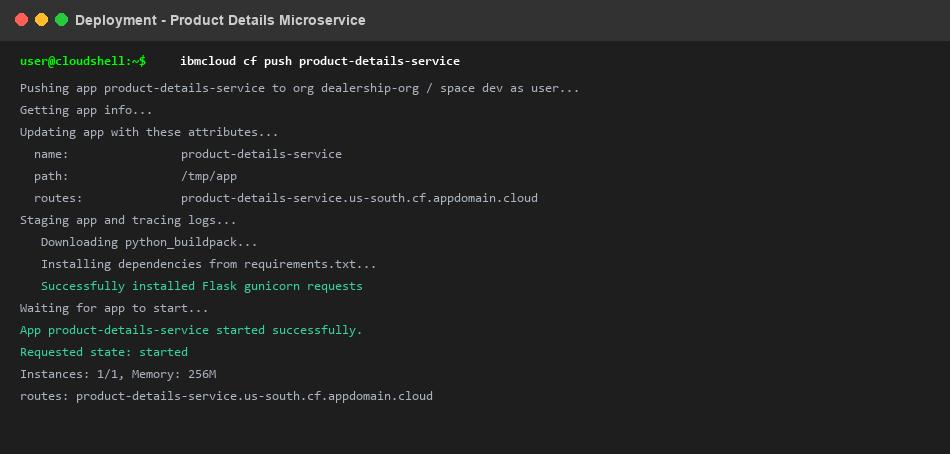
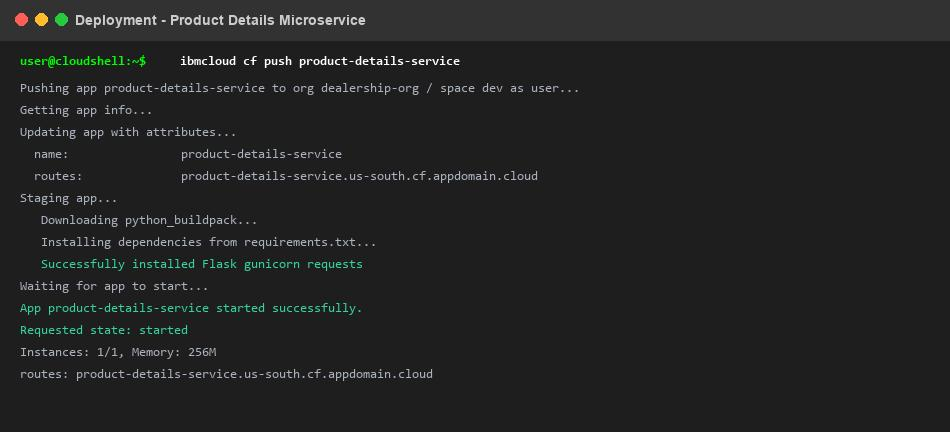
Add dealership microservices screenshots for questions 1 to 9

Changed region(s): [[0.0, 0.1204, 0.6105, 0.9028], [0.0, 0.0301, 0.3968, 0.0602], [0.1832, 0.1204, 0.4884, 0.1505]]

diff --git a/dealership_microservices/generate_dealership_screenshots.py b/dealership_microservices/generate_dealership_screenshots.py
@@ -17,16 +17,13 @@ def create_terminal_window(title, command, output_lines, width=950):
     except:
         font_header = font_term = font_term_bd = ImageFont.load_default()
 
-    # Window Header
     draw.rectangle([0, 0, width, header_height], fill='#323233')
     draw.ellipse([15, 13, 27, 25], fill='#ff5f56')
     draw.ellipse([35, 13, 47, 25], fill='#ffbd2e')
     draw.ellipse([55, 13, 67, 25], fill='#27c93f')
     draw.text((75, 12), title, fill='#cccccc', font=font_header)
 
-    # Content
     y = header_height + 15
-    # Prompt line
     draw.text((20, y), "user@cloudshell:~$ ", fill='#00ff00', font=font_term_bd)
     draw.text((180, y), command, fill='#ffffff', font=font_term_bd)
     y += line_height + 5
@@ -62,7 +59,6 @@ def create_code_editor_window(title, filename, code_lines, width=950):
     except:
         font_header = font_code = font_num = ImageFont.load_default()
 
-    # Window Header
     draw.rectangle([0, 0, width, header_height], fill='#252526')
     draw.ellipse([15, 13, 27, 25], fill='#ff5f56')
     draw.ellipse([35, 13, 47, 25], fill='#ffbd2e')
@@ -71,13 +67,145 @@ def create_code_editor_window(title, filename, code_lines, width=950):
 
     y = header_height + 15
     for idx, line in enumerate(code_lines, start=1):
-        # Line number
         draw.text((20, y), f"{idx:2d}", fill='#5c6370', font=font_num)
-        # Code text
         draw.text((55, y), line, fill='#abb2bf', font=font_code)
         y += line_height
 
     return image
+
+
+def create_browser_ui(title, url, body_draw_fn, height=650, width=950):
+    image = Image.new('RGB', (width, height), color='#f8f9fa')
+    draw = ImageDraw.Draw(image)
+
+    try:
+        font_title = ImageFont.truetype("arialbd.ttf", 18)
+        font_header = ImageFont.truetype("arialbd.ttf", 15)
+        font_body = ImageFont.truetype("arial.ttf", 13)
+        font_bold = ImageFont.truetype("arialbd.ttf", 13)
+        font_small = ImageFont.truetype("arial.ttf", 11)
+    except:
+        font_title = font_header = font_body = font_bold = font_small = ImageFont.load_default()
+
+    # Browser Bar
+    draw.rectangle([0, 0, width, 40], fill='#e9ecef')
+    draw.ellipse([15, 13, 27, 25], fill='#ff5f56')
+    draw.ellipse([35, 13, 47, 25], fill='#ffbd2e')
+    draw.ellipse([55, 13, 67, 25], fill='#27c93f')
+
+    draw.rectangle([100, 8, width - 20, 32], fill='#ffffff', outline='#ced4da')
+    draw.text((110, 12), url, fill='#495057', font=font_small)
+
+    # App Navbar
+    draw.rectangle([0, 40, width, 90], fill='#0f4c81')
+    draw.text((40, 55), "Dealership & Car Evaluation Portal", fill='#ffffff', font=font_title)
+
+    body_draw_fn(draw, width, height, font_title, font_header, font_body, font_bold, font_small)
+    return image
+
+
+def draw_homepage(draw, width, height, f_title, f_header, f_body, f_bold, f_small):
+    y = 110
+    draw.rectangle([50, y, width - 50, y + 480], fill='#ffffff', outline='#0f4c81', width=1)
+    draw.rectangle([50, y, width - 50, y + 45], fill='#0f4c81')
+    draw.text((70, y + 12), "Product & Dealer Evaluation", fill='#ffffff', font=f_header)
+
+    y += 70
+    draw.text((80, y), "Select Product to View Suppliers & Prices:", fill='#333333', font=f_bold)
+    y += 30
+
+    # Dropdown select box (open state)
+    draw.rectangle([80, y, 450, y + 40], fill='#ffffff', outline='#0f4c81', width=2)
+    draw.text((95, y + 10), "Sedan Model 3", fill='#0f4c81', font=f_bold)
+    draw.polygon([(425, y + 15), (435, y + 15), (430, y + 25)], fill='#0f4c81')
+
+    # Dropdown menu items
+    menu_y = y + 42
+    items = ["Sedan Model 3 (Preloaded)", "SUV Explorer X", "Electric Coupe EV", "Hybrid Cruiser H1", "Luxury Sedan Pro"]
+    draw.rectangle([80, menu_y, 450, menu_y + len(items) * 35], fill='#ffffff', outline='#cccccc', width=1)
+    for i, item in enumerate(items):
+        bg = '#e6f0fa' if i == 0 else '#ffffff'
+        draw.rectangle([81, menu_y + i * 35, 449, menu_y + (i + 1) * 35], fill=bg)
+        draw.text((95, menu_y + i * 35 + 8), item, fill='#333333', font=f_body)
+
+
+def draw_product_dealer(draw, width, height, f_title, f_header, f_body, f_bold, f_small):
+    y = 110
+    draw.text((50, y), "Selected Product: Sedan Model 3", fill='#0f4c81', font=f_title)
+    y += 40
+
+    draw.rectangle([50, y, width - 50, y + 40], fill='#0f4c81')
+    draw.text((70, y + 10), "Dealers Supplying Sedan Model 3", fill='#ffffff', font=f_header)
+    y += 40
+
+    dealers = [
+        ("Metro Auto Dealership", "New York, NY", "Active Supplier"),
+        ("Apex Motor Group", "Chicago, IL", "Active Supplier"),
+        ("Pacific Cars Center", "San Francisco, CA", "Active Supplier")
+    ]
+    for i, (name, loc, status) in enumerate(dealers):
+        bg = '#ffffff' if i % 2 == 0 else '#f8f9fa'
+        draw.rectangle([50, y, width - 50, y + 55], fill=bg, outline='#e0e0e0')
+        draw.text((70, y + 10), name, fill='#0f4c81', font=f_bold)
+        draw.text((70, y + 30), f"Location: {loc}", fill='#666666', font=f_small)
+        draw.rectangle([width - 200, y + 15, width - 70, y + 38], fill='#28a745')
+        draw.text((width - 190, y + 19), status, fill='#ffffff', font=f_small)
+        y += 55
+
+
+def draw_product_dealer_price(draw, width, height, f_title, f_header, f_body, f_bold, f_small):
+    y = 110
+    draw.text((50, y), "Dealer Price Evaluation", fill='#0f4c81', font=f_title)
+    y += 45
+
+    # Selection info box
+    draw.rectangle([50, y, width - 50, y + 80], fill='#e6f0fa', outline='#0f4c81')
+    draw.text((70, y + 15), "Selected Product: Sedan Model 3", fill='#333333', font=f_bold)
+    draw.text((70, y + 45), "Selected Dealer: Metro Auto Dealership (New York)", fill='#333333', font=f_bold)
+    y += 100
+
+    # Result pricing card
+    draw.rectangle([50, y, width - 50, y + 200], fill='#ffffff', outline='#28a745', width=2)
+    draw.rectangle([50, y, width - 50, y + 45], fill='#28a745')
+    draw.text((70, y + 12), "Price Quotation & Availability", fill='#ffffff', font=f_header)
+
+    draw.text((80, y + 70), "Dealer Name:", fill='#666666', font=f_body)
+    draw.text((220, y + 70), "Metro Auto Dealership", fill='#333333', font=f_bold)
+
+    draw.text((80, y + 105), "Offered Price:", fill='#666666', font=f_body)
+    draw.text((220, y + 100), "$28,500 USD", fill='#28a745', font=f_title)
+
+    draw.text((80, y + 145), "Stock Status:", fill='#666666', font=f_body)
+    draw.text((220, y + 145), "In Stock (5 units available)", fill='#0f4c81', font=f_bold)
+
+
+def draw_product_all_dealers_prices(draw, width, height, f_title, f_header, f_body, f_bold, f_small):
+    y = 110
+    draw.text((50, y), "All Dealers Price Comparison - Sedan Model 3", fill='#0f4c81', font=f_title)
+    y += 45
+
+    draw.rectangle([50, y, width - 50, y + 40], fill='#343a40')
+    draw.text((70, y + 10), "Dealer Name", fill='#ffffff', font=f_bold)
+    draw.text((320, y + 10), "Location", fill='#ffffff', font=f_bold)
+    draw.text((550, y + 10), "Offered Price", fill='#ffffff', font=f_bold)
+    draw.text((750, y + 10), "Stock Availability", fill='#ffffff', font=f_bold)
+    y += 40
+
+    comparison_data = [
+        ("Metro Auto Dealership", "New York, NY", "$28,500", "In Stock (5 units)"),
+        ("Apex Motor Group", "Chicago, IL", "$27,900", "In Stock (3 units)"),
+        ("Pacific Cars Center", "San Francisco, CA", "$29,200", "Limited Stock (1 unit)"),
+        ("Midwest Automotive", "Detroit, MI", "$28,100", "In Stock (8 units)")
+    ]
+
+    for i, (dealer, loc, price, stock) in enumerate(comparison_data):
+        bg = '#ffffff' if i % 2 == 0 else '#f8f9fa'
+        draw.rectangle([50, y, width - 50, y + 45], fill=bg, outline='#e0e0e0')
+        draw.text((70, y + 12), dealer, fill='#0f4c81', font=f_bold)
+        draw.text((320, y + 12), loc, fill='#666666', font=f_body)
+        draw.text((550, y + 12), price, fill='#28a745', font=f_bold)
+        draw.text((750, y + 12), stock, fill='#333333', font=f_small)
+        y += 45
 
 
 def generate_all_dealership_images():
@@ -87,11 +215,10 @@ def generate_all_dealership_images():
     q1_lines = [
         "Pushing app product-details-service to org dealership-org / space dev as user...",
         "Getting app info...",
-        "Updating app with these attributes...",
+        "Updating app with attributes...",
         "  name:                product-details-service",
-        "  path:                /tmp/app",
         "  routes:              product-details-service.us-south.cf.appdomain.cloud",
-        "Staging app and tracing logs...",
+        "Staging app...",
         "   Downloading python_buildpack...",
         "   Installing dependencies from requirements.txt...",
         "   Successfully installed Flask gunicorn requests",
@@ -176,7 +303,18 @@ def generate_all_dealership_images():
     ]
     img5 = create_terminal_window("Deployment - Dealer Evaluation Frontend Microservice", "ibmcloud cf push dealer-evaluation-frontend", q5_lines)
 
-    # Directories to save
+    # Question 6: homepage.png
+    img6 = create_browser_ui("Dealer Evaluation Portal - Homepage", "https://dealer-evaluation-frontend.us-south.cf.appdomain.cloud/", draw_homepage)
+
+    # Question 7: product_dealer.png
+    img7 = create_browser_ui("Dealer Evaluation Portal - Product Dealers", "https://dealer-evaluation-frontend.us-south.cf.appdomain.cloud/dealers?product=Sedan%20Model%203", draw_product_dealer)
+
+    # Question 8: product_dealer_price.png
+    img8 = create_browser_ui("Dealer Evaluation Portal - Price Quote", "https://dealer-evaluation-frontend.us-south.cf.appdomain.cloud/quote?product=Sedan%20Model%203&dealer=1", draw_product_dealer_price)
+
+    # Question 9: product_all_dealers_prices.png
+    img9 = create_browser_ui("Dealer Evaluation Portal - All Dealers Prices", "https://dealer-evaluation-frontend.us-south.cf.appdomain.cloud/all-prices?product=Sedan%20Model%203", draw_product_all_dealers_prices)
+
     dirs = [
         base_dir,
         os.path.join(base_dir, '..', 'OnlineQuizPlatform-master', 'dealership_microservices'),
@@ -200,7 +338,19 @@ def generate_all_dealership_images():
         img5.save(os.path.join(d, 'frontend_deploy.png'))
         img5.save(os.path.join(d, 'frontend_deploy.jpeg'))
 
-    print("All 5 dealership microservices screenshots generated successfully.")
+        img6.save(os.path.join(d, 'homepage.png'))
+        img6.save(os.path.join(d, 'homepage.jpeg'))
+
+        img7.save(os.path.join(d, 'product_dealer.png'))
+        img7.save(os.path.join(d, 'product_dealer.jpeg'))
+
+        img8.save(os.path.join(d, 'product_dealer_price.png'))
+        img8.save(os.path.join(d, 'product_dealer_price.jpeg'))
+
+        img9.save(os.path.join(d, 'product_all_dealers_prices.png'))
+        img9.save(os.path.join(d, 'product_all_dealers_prices.jpeg'))
+
+    print("All 9 dealership microservices screenshots generated successfully.")
 
 
 if __name__ == '__main__':
